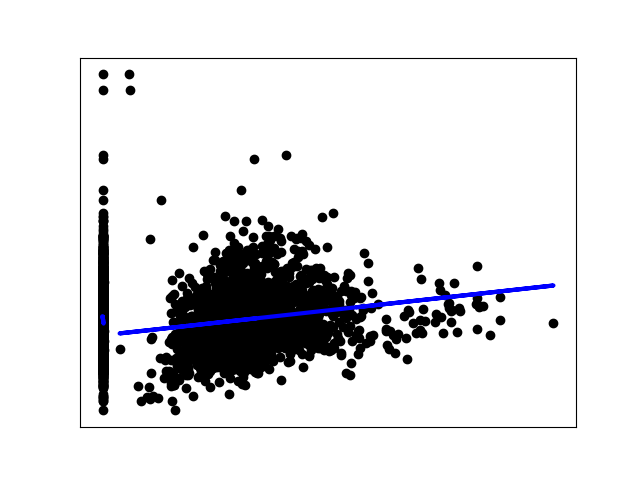
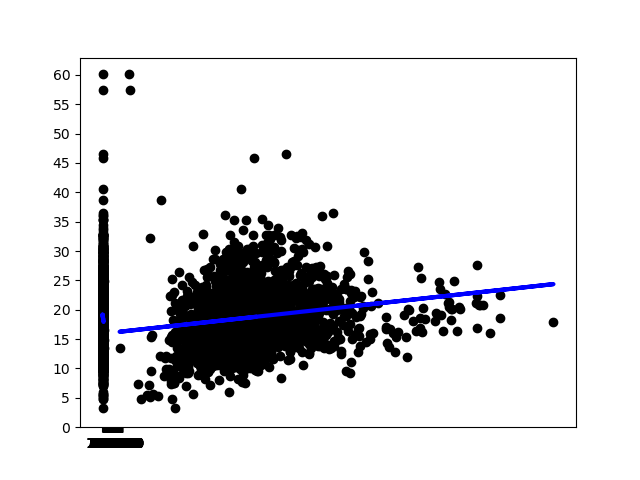
updated graphs

diff --git a/Processing/simple_regression.py b/Processing/simple_regression.py
@@ -58,15 +58,15 @@ print(f'PKE: {val1_score}\tPF: {val2_score}')
 plt.scatter(X1_test, y_test,color='black')
 plt.plot(X1_test, y1_pred, color='blue', linewidth=3)
 
-plt.xticks(())
-plt.yticks(())
+plt.xticks((np.arange(0, 1000, 50)))
+plt.yticks((np.arange(0, 65, 5)))
 
 plt.savefig('pke_simplereg.png')
 
 plt.scatter(X2_test, y_test,color='black')
 plt.plot(X2_test, y2_pred, color='blue', linewidth=3)
 
-plt.xticks(())
-plt.yticks(())
+plt.xticks((np.arange(0, 20000, 50)))
+plt.yticks((np.arange(0, 65, 5)))
 
 plt.savefig('pf_simplereg.png')
